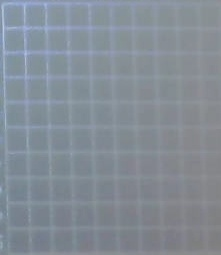
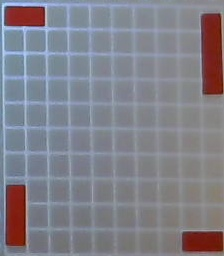
..

diff --git a/Final code/detectShapePosition.py b/Final code/detectShapePosition.py
@@ -17,9 +17,9 @@ def detectShapePosition(back,curent,thresh):
     back_greyB = cv2.GaussianBlur(back_grey, (7, 7), 0)
     #current_greyBH = cv2.equalizeHist(current_grey)
     #back_greyBH = cv2.GaussianBlur(back_greyBH, (7,7), 0)
-    #cv2.imwrite("Pictures/back_greyBH" + str(awr) + ".jpg", back_greyBH)
+    cv2.imwrite("Pictures/back_greyB" + str(awr) + ".jpg", back_greyB)
     #current_greyBH = cv2.GaussianBlur(current_greyBH, (7, 7), 0)
-    #cv2.imwrite("Pictures/current_greyBH"+ str(awr) + ".jpg", current_greyBH)
+    cv2.imwrite("Pictures/current_greyB"+ str(awr) + ".jpg", current_greyB)
     #cv2.imshow('back',back_greyBH)
     #cv2.imshow('current',current_greyBH)
     difference = cv2.absdiff(back_greyB, current_greyB)
@@ -115,6 +115,9 @@ def shape_positions(coord,width,height):
         #print(str(shapeRowMax))
         yMax -= 1
 
+    print(shapeRowMax, shapeRowMin)
+    print(shapeColumnMax, shapeColumnMin)
+
     #yMax=0
     #print('The shape starts on vertical line ' + str(shapeColumnMin) + ' and ends in vertical line ' + str(shapeColumnMax))
     #print('The shape starts on horizontal line ' + str(shapeRowMin) + ' and ends in horizontal line ' + str(shapeRowMax))
@@ -128,22 +131,30 @@ def shape_positions(coord,width,height):
         shapeRowMax=shapeRowMax+1
 
     if(diffColumn>=2 and diffRows>=2):
-
+        print("IF1 before" + str(shapeRowMax) +  " "  + str(shapeColumnMax))
         if(diffColumn==2 and diffRows==2):
+            print("IF1A before" + str(shapeRowMax) +  " "  + str(shapeColumnMax))
             if ((shapeYMax - shapeYMin) > (shapeXMax - shapeXMin)):
+                print("IF1AA before" + str(shapeRowMax) +  " "  + str(shapeColumnMax))
                 shapeColumnMax = shapeColumnMax - 1
+                print("IF1AA after"  + str(shapeRowMax) +  " "  + str(shapeColumnMax))
+
                 #shapeRowMax += 1
             elif ((shapeYMax - shapeYMin) < (shapeXMax - shapeXMin)):
+                print("IF1B before" + str(shapeRowMax) +  " "  + str(shapeColumnMax))
                 shapeRowMax = shapeRowMax - 1
+                print("IF1B after" + str(shapeRowMax) +  " "  + str(shapeColumnMax))
                 #shapeColumnMax += 1
         else:
             if(diffColumn>diffRows):
+                print("IF2A before" + str(shapeRowMax) +  " "  + str(shapeColumnMax))
                 shapeRowMax=shapeRowMax-1
+                print("IF2A after" + str(shapeRowMax) +  " "  + str(shapeColumnMax))
             if(diffRows>diffColumn):
+                print("IF2B before" + str(shapeRowMax) +  " "  + str(shapeColumnMax))
                 shapeColumnMax=shapeColumnMax-1
-
-            shapeColumnMax = shapeColumnMax - 1
-
+                print("IF2B after" + str(shapeRowMax) +  " "  + str(shapeColumnMax))
+        print("IF1 after" + str(shapeRowMax) +  " "  + str(shapeColumnMax))
     yield(shapeColumnMin,shapeColumnMax,shapeRowMin,shapeRowMax)
     print(str(shapeColumnMin) + ' ' + str(shapeColumnMax)+ ' '+str(shapeRowMin)+ ' '+str(shapeRowMax))
 def shape_gridP(MinMax):

diff --git a/Final code/calibration.py b/Final code/calibration.py
@@ -16,6 +16,7 @@ def calibration(image_to_crop):
     binary_image = cv2.inRange(blurred_image, 130, 255)
     cv2.imshow("gray", blurred_image)
     cv2.imshow("mask", binary_image)
+    cv2.imwrite("Pictures/blobs.jpg", binary_image)
 
     # Find blob
 
@@ -29,14 +30,20 @@ def calibration(image_to_crop):
 
     coord = coordinates(correct_blobs)
 
-    print(coord)
+
     # Find placement grids
     player1_placement = (coord[0][0], coord[0][-1])
-    player2_placement = (coord[-1][0], coord[-1][-1])
+    #ratiox = coord[0][-1][0] - coord[0][0][0]
+    #ratioy =  coord[0][-1][1] - coord[0][0][1]
 
+    player2_placement = (coord[-1][0], coord[-1][-1])
+    #player2_placement = (coord[-1][0], (coord[-1][0][0] + ratiox, coord[-1][0][1]  + ratioy))
     # Find attack grids
     player1_attack = (coord[1][0], coord[1][-1])
+    #player1_attack = (coord[1][0], (coord[1][0][0] + ratiox, coord[1][0][1]  + ratioy))
+
     player2_attack = (coord[2][0], coord[2][-1])
+    #player2_attack = (coord[2][0], (coord[2][0][0] + ratiox, coord[2][0][1]  + ratioy))
 
     # Return the coordinates to the function, hence turning the function into these values
     # These values can be accessed by refering to them as an array
@@ -45,8 +52,8 @@ def calibration(image_to_crop):
 
 marker_positions = []
 video = cv2.VideoCapture(1)
-#video.set(cv2.CAP_PROP_AUTO_EXPOSURE, 0.25)
-#video.set(cv2.CAP_PROP_EXPOSURE, -3)
+video.set(cv2.CAP_PROP_AUTO_EXPOSURE, 0.25)
+video.set(cv2.CAP_PROP_EXPOSURE, -3)
 #video.set(CV_CAP_PROP_FRAME_WIDTH, 1280);
 #video.set(CV_CAP_PROP_FRAME_HEIGHT, 720);
 #video.set(3, 1920)
@@ -61,7 +68,7 @@ while True:
     temp += 1
 
 positions = calibration(frame)
-
+print(positions)
 video.release()
 cv2.waitKey(0)
 cv2.destroyAllWindows()

diff --git a/Final code/main.py b/Final code/main.py
@@ -1,8 +1,8 @@
 import cv2
 import numpy as np
 from blob import extract_blobs
-#from calibration import *
-#from cropAndDetect import *
+from calibration import *
+from cropAndDetect import *
 from detectShapePosition import *
 from PlacementModule import *
 from Ship import ship
@@ -20,17 +20,17 @@ rows, cols = (10, 10)
 pap1 = [[0 for i in range(cols)] for j in range(rows)]; feed1 = [[0 for ii in range(cols)] for jj in range(rows)]; p1ships = [];
 pap2 = [[0 for f in range(cols)] for s in range(rows)]; feed2 = [[0 for ff in range(cols)] for ss in range(rows)]; p2ships = [];
 
-for shipPos in detectShapePosition(cv2.imread("Pictures/Cropped.jpg"), cv2.imread("Pictures/shipsCropped.jpg"), 14):
+for shipPos in detectShapePosition(background_images[0], shapes[0], 14):
     PlaceShip(pap1, shipPos, p1ships)
 
-#for minePos in detectShapePosition(background_images[-1], shapes[-1], 14):
-#    CheckMines(minePos, pap1, feed1)
+for minePos in detectShapePosition(background_images[-1], shapes[-1], 14):
+    CheckMines(minePos, pap1, feed1)
 
-#for shipPos in detectShapePosition(background_images[1], shapes[1], 10):
-#    PlaceShip(pap2, shipPos, p2ships)
+for shipPos in detectShapePosition(background_images[1], shapes[1], 10):
+    PlaceShip(pap2, shipPos, p2ships)
 
-#for minePos in detectShapePosition(background_images[2], shapes[2], 10):
-#    CheckMines(minePos, pap2, feed2)
+for minePos in detectShapePosition(background_images[2], shapes[2], 10):
+    CheckMines(minePos, pap2, feed2)
 
 
 

diff --git a/Final code/cropAndDetect.py b/Final code/cropAndDetect.py
@@ -9,10 +9,15 @@ background_images = []; shapes = []
 green = []; pink = []
 
 def gridPositions(pg1, pg2, ag1, ag2):
+    #pg1.append((positions[0][0][0][1], positions[0][0][1][1], positions[0][0][0][0], positions[0][0][1][0]))
+    #pg2.append((positions[0][1][0][1], positions[0][1][1][1], positions[0][1][0][0], positions[0][1][1][0]))
+    #ag1.append((positions[1][0][0][1], positions[0][0][1][1], positions[1][0][0][0], positions[0][1][1][0]))
+    #ag2.append((positions[1][1][0][1], positions[1][1][1][1], positions[1][1][0][0], positions[1][1][1][0]))
     pg1.append((positions[0][0][0][1], positions[0][0][1][1], positions[0][0][0][0], positions[0][0][1][0]))
     pg2.append((positions[0][1][0][1], positions[0][1][1][1], positions[0][1][0][0], positions[0][1][1][0]))
-    ag1.append((positions[1][0][0][1], positions[0][0][1][1], positions[1][0][0][0], positions[0][1][1][0]))
+    ag1.append((positions[1][0][0][1], positions[1][0][1][1], positions[1][0][0][0], positions[1][0][1][0]))
     ag2.append((positions[1][1][0][1], positions[1][1][1][1], positions[1][1][0][0], positions[1][1][1][0]))
+
 
 
 
@@ -21,8 +26,8 @@ def cropGrid(image, grid):
     return cropped_image
 
 video = cv2.VideoCapture(1)
-#video.set(cv2.CAP_PROP_AUTO_EXPOSURE, 0.25)
-#video.set(cv2.CAP_PROP_EXPOSURE, -3)
+video.set(cv2.CAP_PROP_AUTO_EXPOSURE, 0.25)
+video.set(cv2.CAP_PROP_EXPOSURE, -3)
 #video.set(cv2.CAP_PROP_FRAME_WIDTH, 1280);
 #video.set(cv2.CAP_PROP_FRAME_HEIGHT, 720);
 #video.set(3, 1920)
